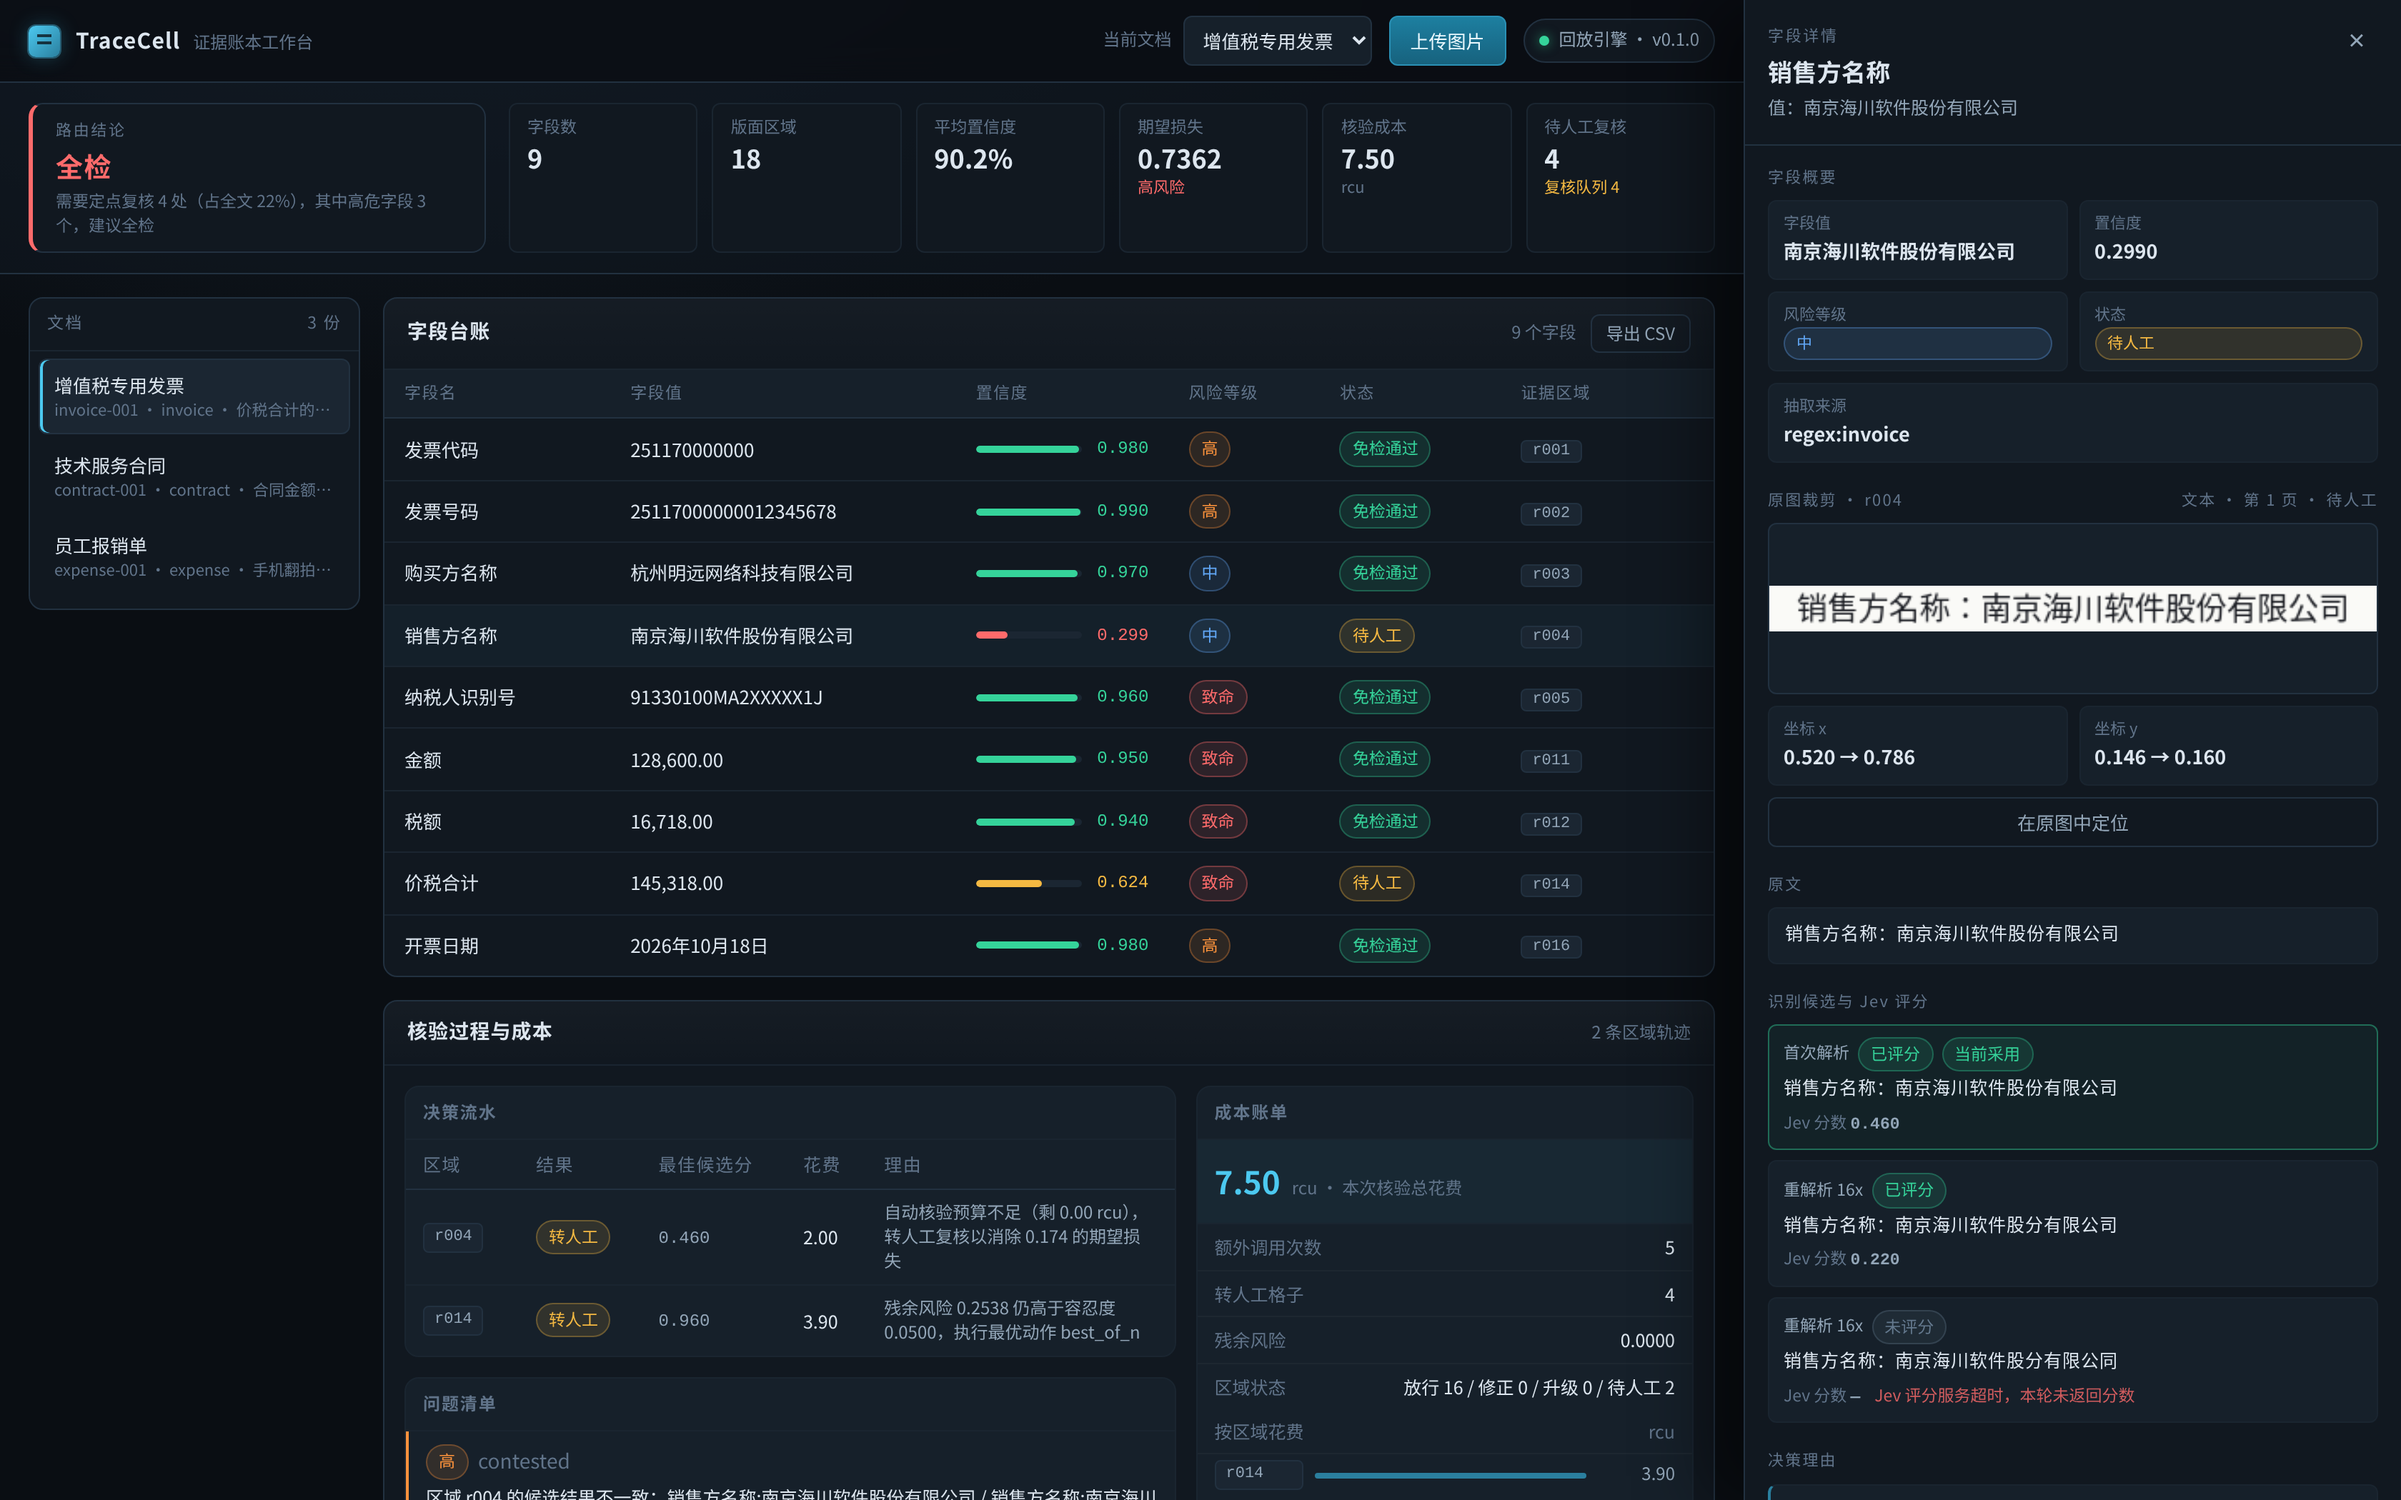
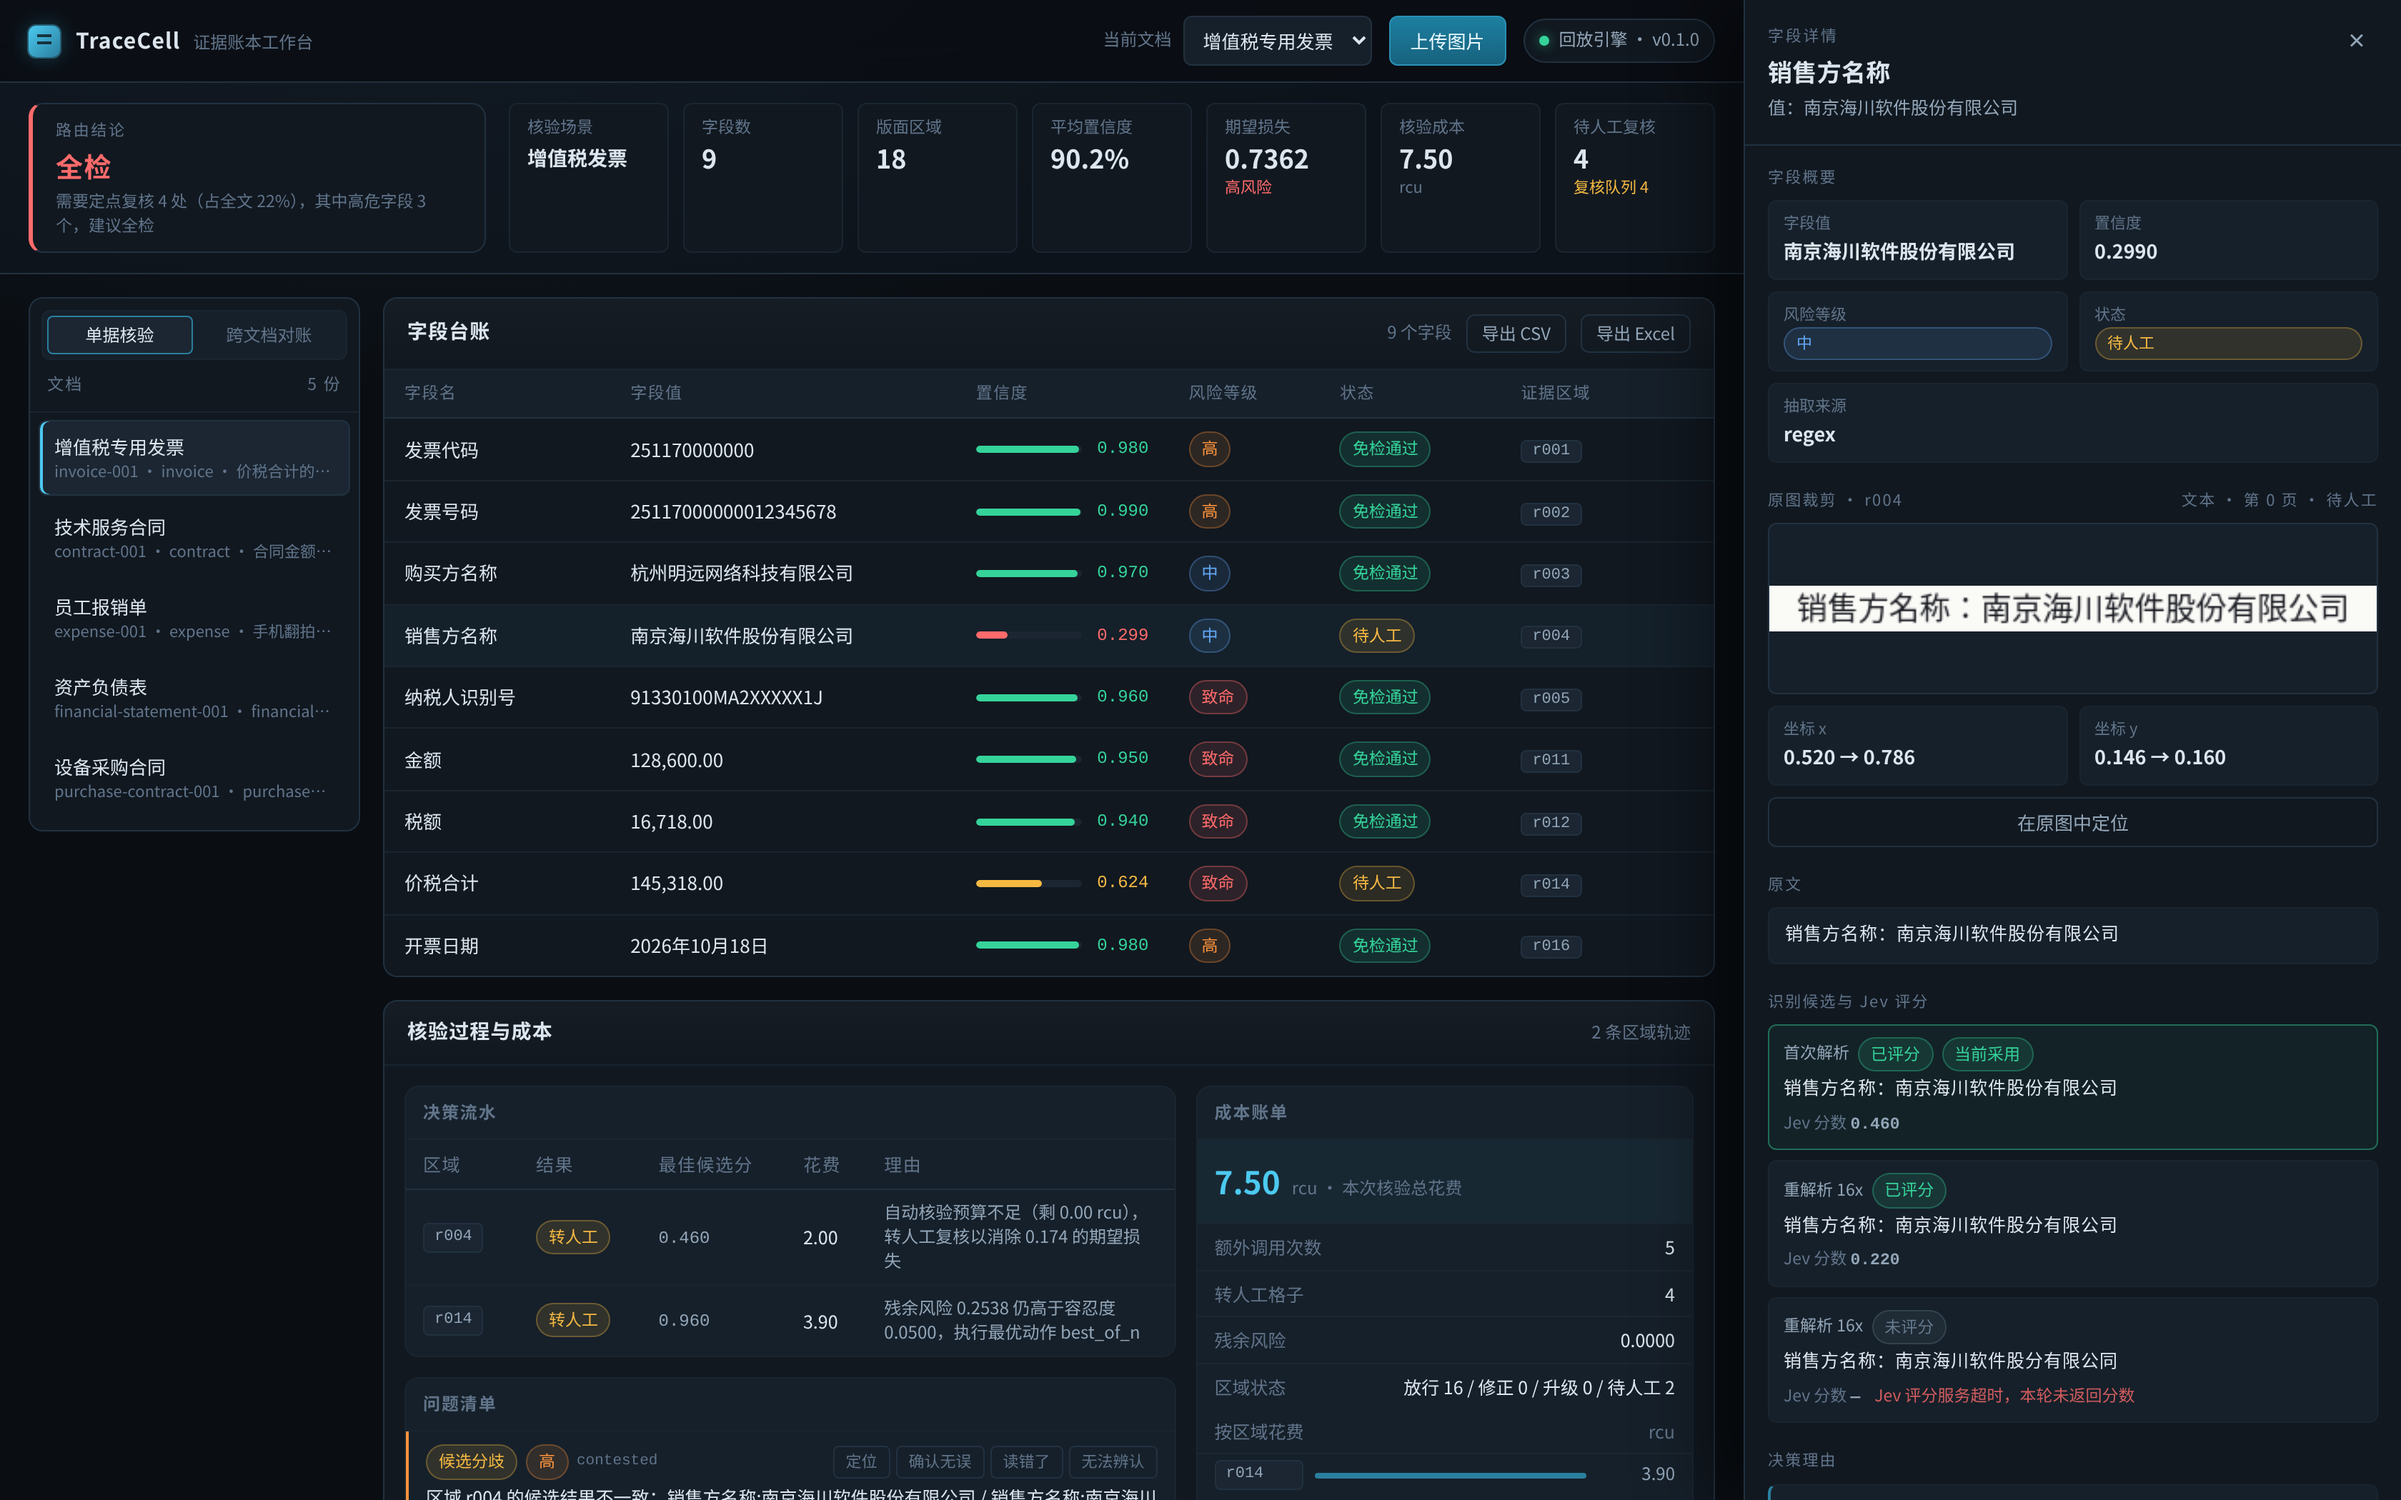
feat(web): 跨文档对账视图、Excel 导出、人工复核回灌
复核标完直接回灌账本，同时变成标定样本。

diff --git a/src/tracecell/web/static/app.js b/src/tracecell/web/static/app.js
@@ -183,6 +183,13 @@ function tag(text, cls) {
   return `<span class="tag ${esc(cls)}">${esc(text)}</span>`;
 }
 
+/* 网络层的报错对用户没意义，换成人话 */
+function friendlyError(err) {
+  const message = (err && err.message) || String(err || '');
+  if (/failed to fetch|networkerror|load failed/i.test(message)) return '连不上服务端（网络错误）';
+  return message || '未知错误';
+}
+
 /* ── 网络 ──────────────────────────────────────────────────────────── */
 async function apiGet(path) {
   const response = await fetch(path, { headers: { Accept: 'application/json' } });
@@ -368,7 +375,7 @@ async function loadScenarios() {
     state.scenarios = [];
     select.innerHTML = '<option value="invoice">增值税发票</option>';
     select.disabled = false;
-    showToast(`单据类型加载失败：${err.message}`, 'error');
+    showToast(`单据类型加载失败：${friendlyError(err)}`, 'error');
   }
   updateScenarioHint();
 }
@@ -524,7 +531,7 @@ async function loadReconcile(force) {
     state.reconcile = data && typeof data === 'object' ? data : {};
   } catch (err) {
     state.reconcile = null;
-    state.reconcileError = err.message;
+    state.reconcileError = friendlyError(err);
   } finally {
     state.reconcileLoading = false;
     renderReconcile();
@@ -1201,7 +1208,7 @@ async function submitReview(regionId, verdict, correctedText) {
     showToast(meta ? meta.toast : '复核结论已回灌', 'ok');
     await refreshLedger();
   } catch (err) {
-    showToast(`复核回灌失败：${err.message}`, 'error');
+    showToast(`复核回灌失败：${friendlyError(err)}`, 'error');
     buttons.forEach((button) => { button.disabled = false; });
   }
 }

diff --git a/src/tracecell/web/app.py b/src/tracecell/web/app.py
@@ -9,11 +9,12 @@
 
 from __future__ import annotations
 
+import hashlib
 import os
 from pathlib import Path
 from typing import Any
 
-from fastapi import FastAPI, HTTPException, UploadFile, File
+from fastapi import FastAPI, File, Form, HTTPException, UploadFile
 from fastapi.responses import FileResponse, JSONResponse, Response
 from fastapi.staticfiles import StaticFiles
 
@@ -155,12 +156,32 @@ def create_app(provider: str = "replay") -> FastAPI:
         return JSONResponse(payload)
 
     @app.post("/api/analyze")
-    async def analyze(file: UploadFile = File(...), scenario: str = "invoice") -> JSONResponse:
+    async def analyze(
+        file: UploadFile = File(...),
+        scenario: str = Form("invoice"),
+    ) -> JSONResponse:
         content = await file.read()
         if not content:
             raise HTTPException(status_code=400, detail="空文件")
-        doc_id = file.filename or "upload"
-        doc_id = doc_id.rsplit(".", 1)[0]
+        doc_id = (file.filename or "upload").rsplit(".", 1)[0]
+
+        if provider == "replay":
+            # 回放模式没有真实模型，但上传的文件可能就是录过的样例。
+            # 按内容哈希找一下，找到就直接回放那份账本。
+            digest = hashlib.sha256(content).hexdigest()
+            matched = merged.find_by_hash(digest) or merged.find_by_source(doc_id)
+            if matched is None:
+                raise HTTPException(
+                    status_code=400,
+                    detail=(
+                        "回放模式只支持已录制的样例。要核验新文档，"
+                        "请用 --provider minicpm 启动服务并接上 MiniCPM-OCR 与 Jev。"
+                    ),
+                )
+            document = merged.document(matched) or {}
+            scenario = document.get("schema", scenario)
+            doc_id = matched
+
         report = build_loop(doc_id, scenario).run(content, doc_id, file.filename or "")
         store.put(report.ledger, content, {"scenario": scenario, "label": "上传文件"})
         payload = report.ledger.to_dict()

diff --git a/src/tracecell/providers/replay.py b/src/tracecell/providers/replay.py
@@ -84,6 +84,17 @@ class ReplaySession:
     def doc_ids(self) -> list[str]:
         return list(self.documents)
 
+    def find_by_hash(self, digest: str) -> str | None:
+        """按文件内容的哈希反查文档标识。
+
+        上传一张图进来时，文件名未必对得上，但内容一样就应该是同一份。
+        """
+
+        for doc_id, document in self.documents.items():
+            if document.get("sha256") == digest:
+                return doc_id
+        return None
+
     def find_by_source(self, filename: str) -> str | None:
         """按源文件名反查文档标识。
 

diff --git a/README.md b/README.md
@@ -79,6 +79,16 @@ CrossRule("financial_statement", "营业收入", "invoice", "金额", "money"),
 什么动作、置信度怎么变的、花了多少算力，以及最后一份能直接当工单用的复核
 清单。
 
+左边可以切到「跨文档对账」，把五份样例放在一起比：
+
+![跨文档对账](docs/images/reconcile.png)
+
+左右并排显示两边各自的取值、置信度和证据区域，置信度低的那一侧标成「更可疑」。
+点文档名能跳回单据核验视图并高亮对应的那一行。
+
+问题清单里每条都能直接做人工复核——确认无误、读错了、无法辨认。标完回灌
+账本，被确认的区域直接放行，同时这条标注变成标定样本。
+
 ## 快速跑起来
 
 不需要 GPU，样例数据已经录好：
@@ -263,7 +273,7 @@ AUROC 1.0000
 设定的，所以 AUROC 恰好是 1.0——只说明这份数据上分数与真值完全可分，不代表
 真实业务分布。真实数据上 AUROC 会在 0.9 附近，阈值也必须重新标。
 
-测试 179 个，不依赖 GPU，模型调用全部用回放数据替换。
+测试 190 个，不依赖 GPU，模型调用全部用回放数据替换。
 
 ## 生产链路
 
@@ -440,7 +450,7 @@ tracecell mcp --session samples/sessions
 ```
 TraceCell/
 ├── src/tracecell/      核心库
-├── tests/              121 个用例
+├── tests/              190 个用例
 ├── samples/            样例单据、录制会话、标注集、真实模型输出
 ├── scripts/            样例生成、标注导出、真实输出录制
 ├── docs/               部署说明与界面截图
